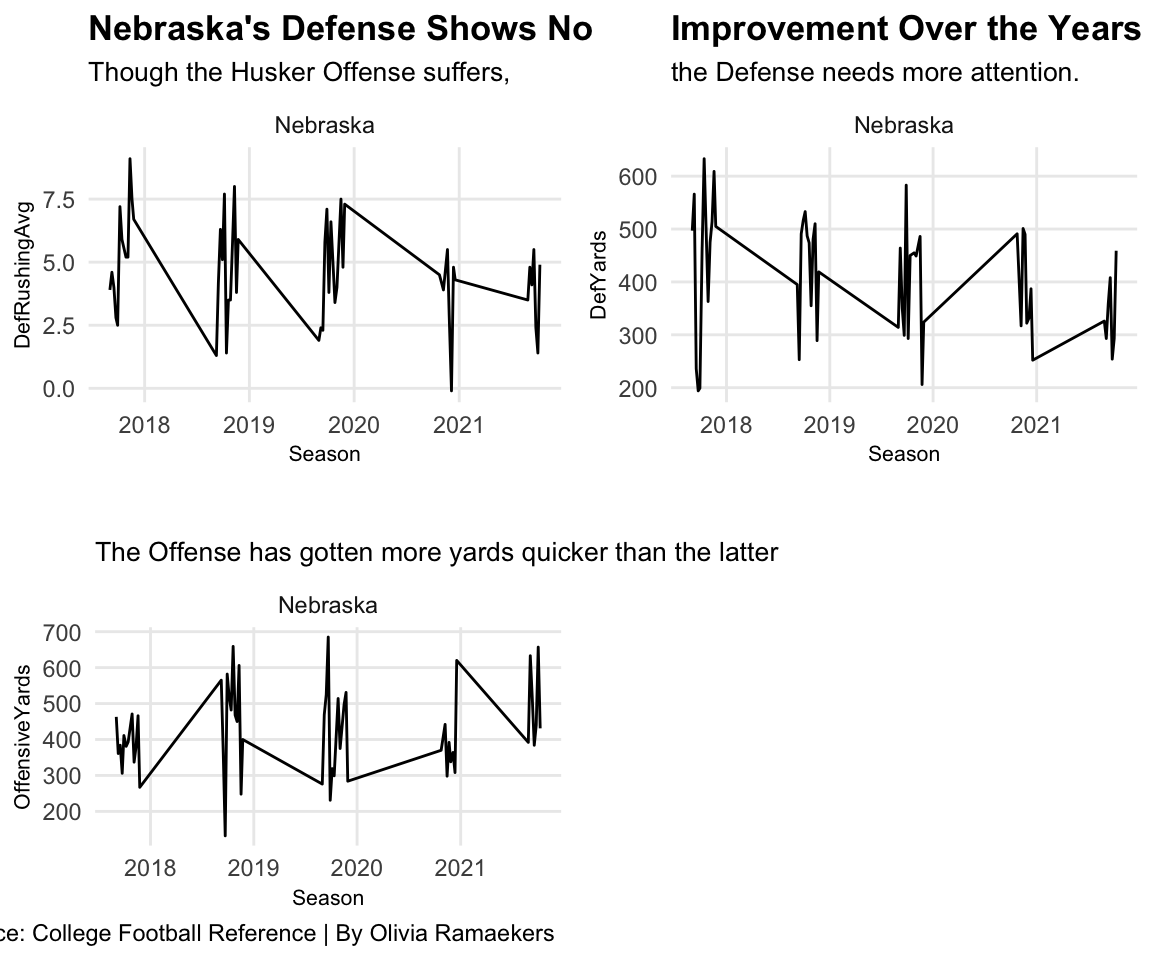
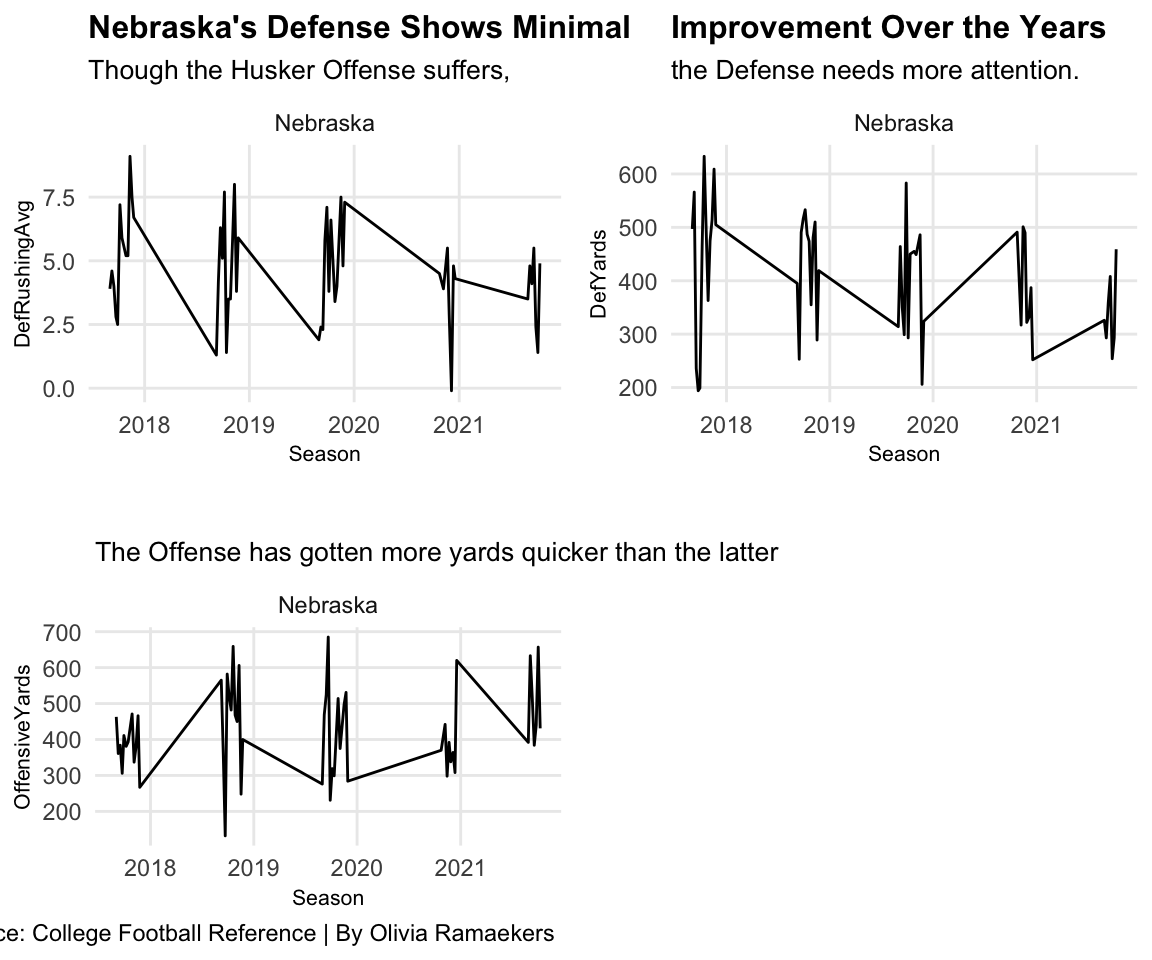
more fix
width and height

diff --git a/2021/12/05/is-the-husker-football-team-cursed/index.html b/2021/12/05/is-the-husker-football-team-cursed/index.html
@@ -106,7 +106,7 @@ library(ggbump)</code></pre>
   scale_color_manual(values= c(&quot;gray&quot;, &quot;gray&quot;, &quot;gray&quot;, &quot;gray&quot;, &quot;gray&quot;,&quot;gray&quot;,&quot;gray&quot;,&quot;#e41c38&quot;, &quot;gray&quot;, &quot;gray&quot;, &quot;gray&quot;, &quot;gray&quot;,&quot;gray&quot;, &quot;gray&quot;))</code></pre>
 <p>Now that the charts are created, I need to adjust them so that the data is visible and can be easily understood. I changed the width and the height of the data so you can see the (negative) progression throughout Frost’s 5 years.</p>
 <pre class="r"><code>plot_grid(bar1, bar2)</code></pre>
-<p><img src="/2021/12/05/is-the-husker-football-team-cursed/index_files/figure-html/unnamed-chunk-6-1.png" width="864" />
+<p><img src="/2021/12/05/is-the-husker-football-team-cursed/index_files/figure-html/unnamed-chunk-6-1.png" width="960" />
 From this chart, the fans arguing for Scott to close this chapter make a great point. Scott and the Huskers haven’t won more than 5 games in years (their losing record is the only thing that stays above the number 5).</p>
 <p>Ok, so let’s try and pin-point where this dumpster fire actually is. Is it the Offense? The Defense? The Coaching? I’m going to show the performance of the defense over Frost’s coaching career.</p>
 <p>Since I have 5 years of data, I need to create a field for all of them, and combine all 5 of those fields into one. using ‘rbind’ will combine each of the fields into one</p>
@@ -121,10 +121,10 @@ From this chart, the fans arguing for Scott to close this chapter make a great p
   filter (Team == &quot;Nebraska&quot;)</code></pre>
 <p>Next, I’m going to be looking at the Defensive Rushing Average, the Defensive Yardage, and to compare, the Offensive Yardage.</p>
 <pre class="r"><code>rushavg &lt;- ggplot() + geom_line(data=nu, aes(x=Date, y=DefRushingAvg, group=1)) +
-  labs (title = &quot;Nebraska&#39;s Defense Shows No&quot;, subtitle = &quot;Though the Husker Offense suffers,&quot;, x= &quot;Season&quot;, y= &quot;DefRushingAvg&quot;) + 
+  labs (title = &quot;Nebraska&#39;s Defense Shows Minimal&quot;, subtitle = &quot;Though the Husker Offense suffers,&quot;, x= &quot;Season&quot;, y= &quot;DefRushingAvg&quot;) + 
   theme_minimal() + 
   theme (
-    plot.title = element_text(size = 13, face = &quot;bold&quot;), 
+    plot.title = element_text(size = 12, face = &quot;bold&quot;), 
     axis.title = element_text(size=8), 
     plot.subtitle = element_text(size=10),
     panel.grid.minor = element_blank ()
@@ -133,7 +133,7 @@ From this chart, the fans arguing for Scott to close this chapter make a great p
   labs (title = &quot;Improvement Over the Years&quot;, subtitle = &quot;the Defense needs more attention.&quot;, x= &quot;Season&quot;, y= &quot;DefYards&quot;) + 
   theme_minimal() + 
   theme (
-    plot.title = element_text(size = 13, face = &quot;bold&quot;), 
+    plot.title = element_text(size = 12, face = &quot;bold&quot;), 
     axis.title = element_text(size=8), 
     plot.subtitle = element_text(size=10),
     panel.grid.minor = element_blank ()
